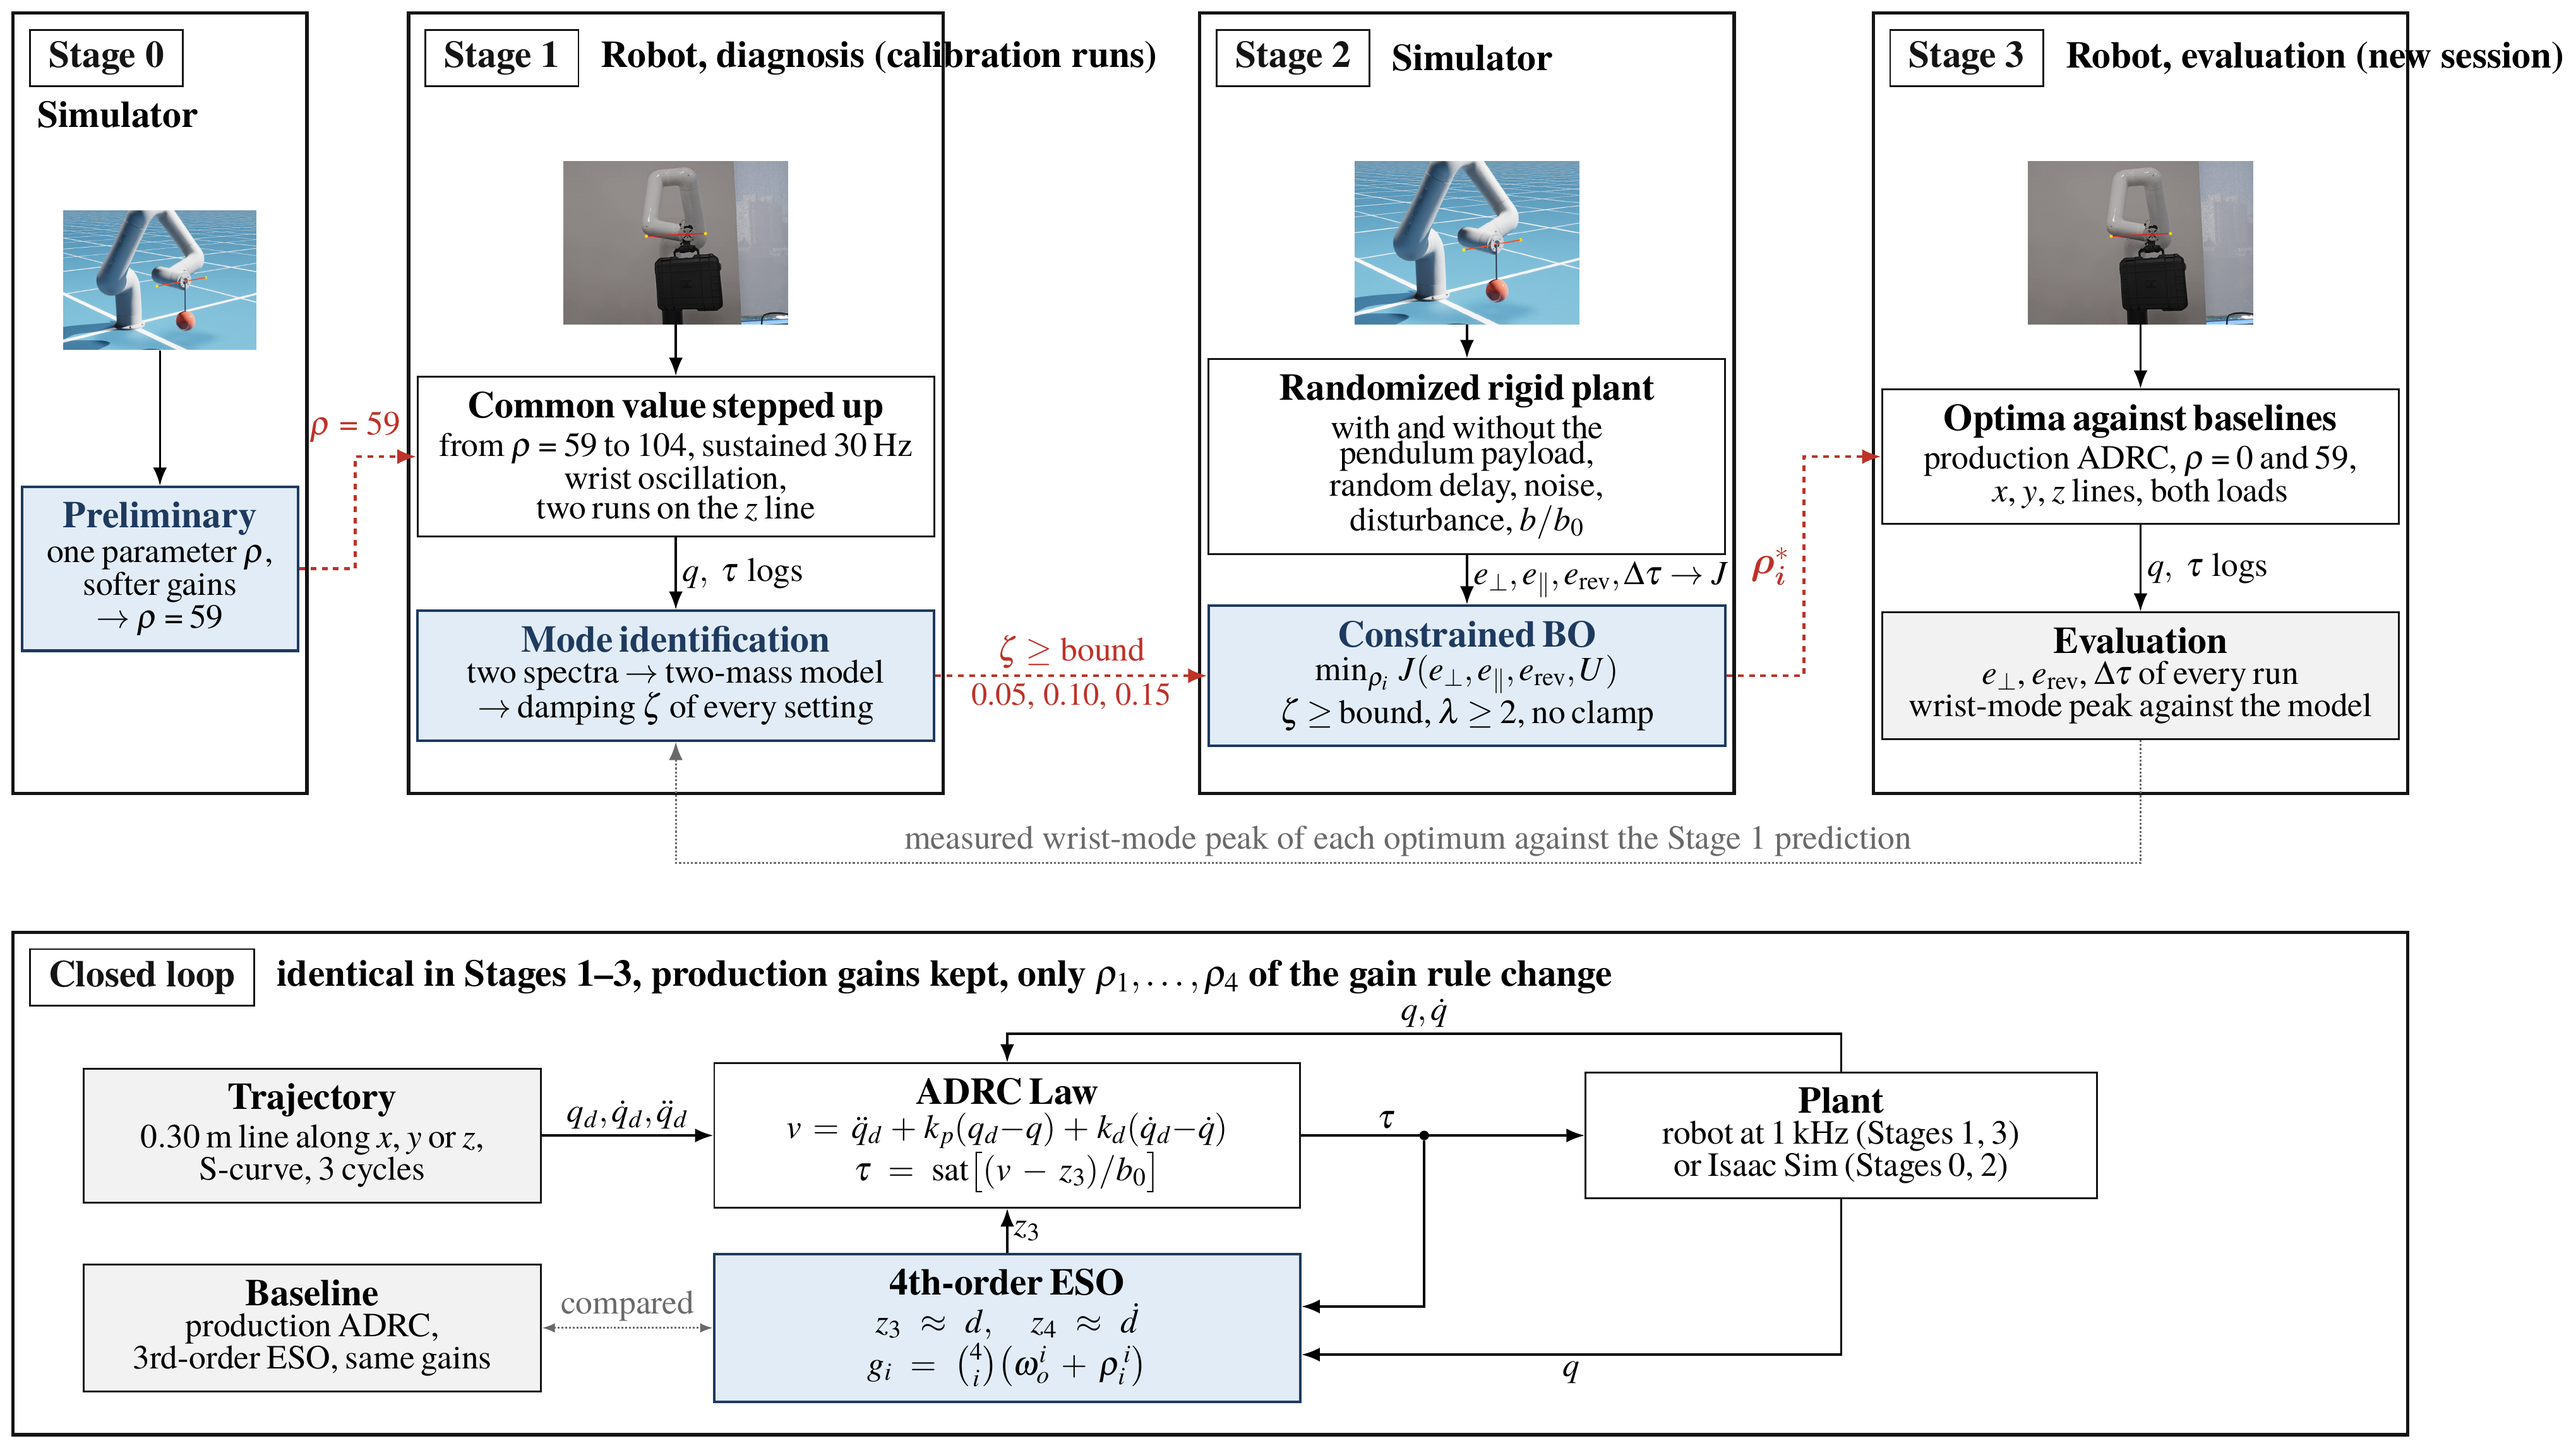
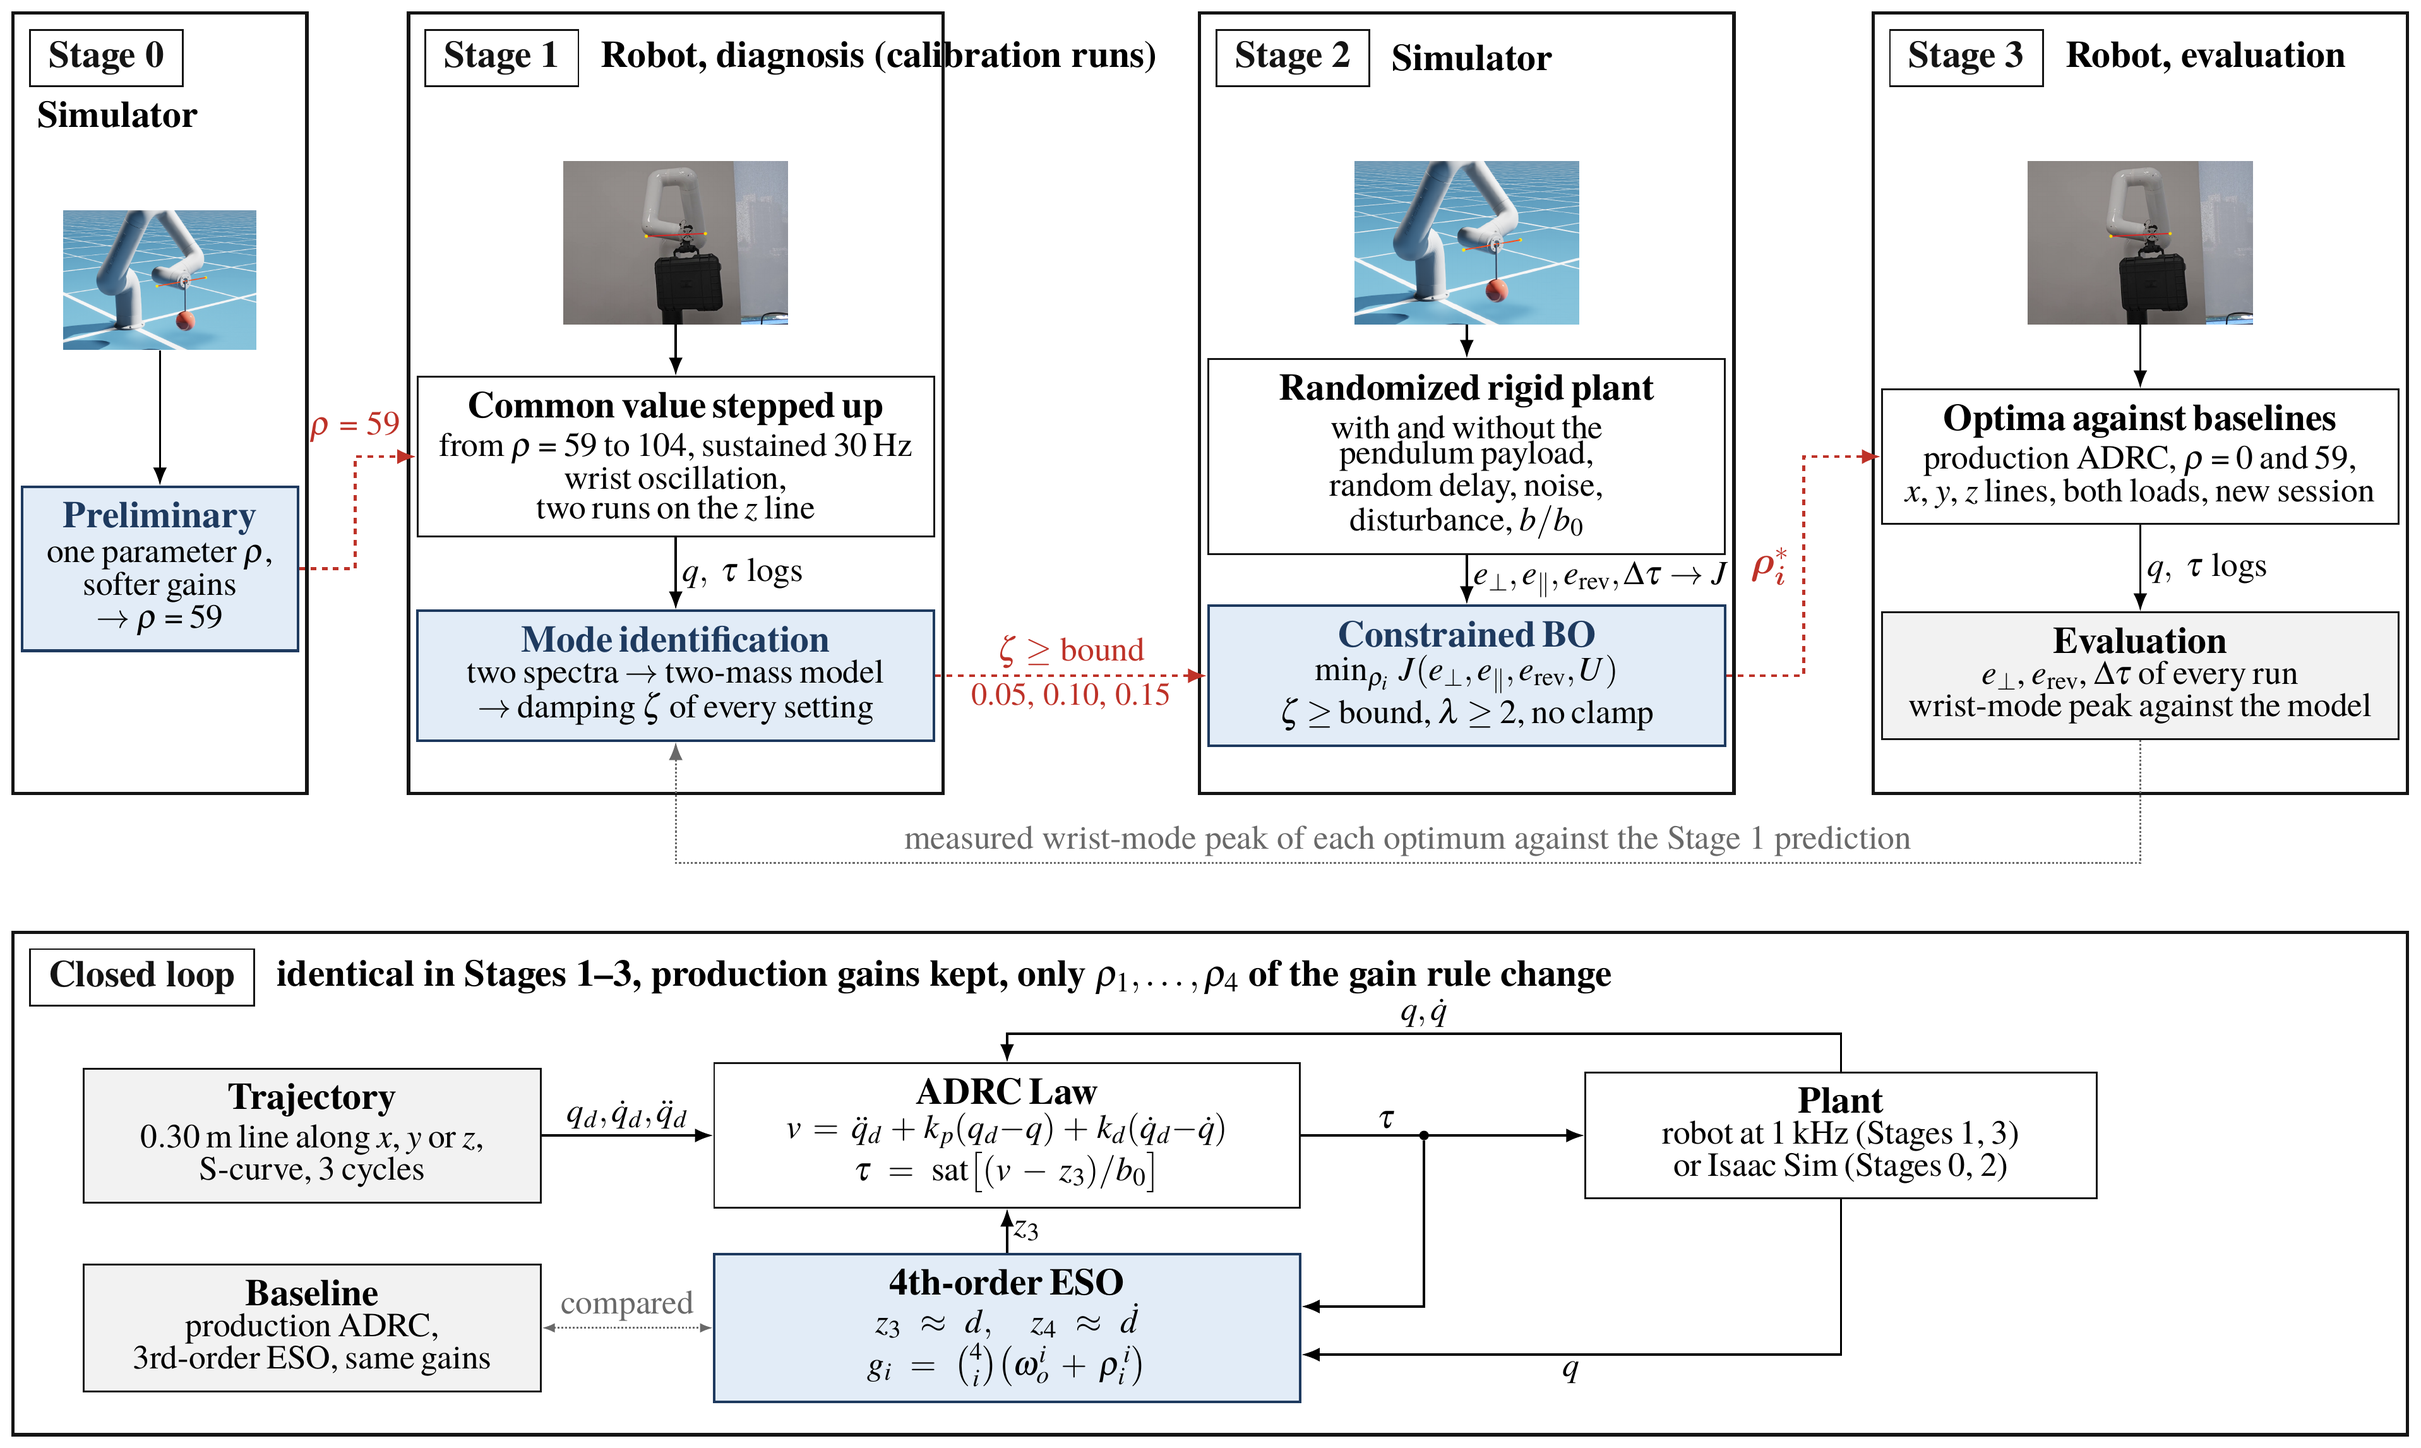
Fig. 1: Stage 3 subtitle shortened, 'new session' moved into the box

diff --git a/index.html b/index.html
@@ -56,7 +56,7 @@
     <section class="page-width section-space" id="method" aria-labelledby="method-title">
       <h2 id="method-title">Method</h2>
       <figure class="method-figure">
-        <img src="assets/fig1_pipeline.png?v=20261117h" alt="Study design in four stages. A preliminary simulator search gives the nominal common value, the robot steps it up to the onset of wrist oscillation and fits a two-mass loop model, constrained Bayesian optimization searches at three levels of the damping bound in the simulator, and the optimum of each level runs on the robot against the production ADRC, the binomial observer and the nominal value.">
+        <img src="assets/fig1_pipeline.png?v=20261117i" alt="Study design in four stages. A preliminary simulator search gives the nominal common value, the robot steps it up to the onset of wrist oscillation and fits a two-mass loop model, constrained Bayesian optimization searches at three levels of the damping bound in the simulator, and the optimum of each level runs on the robot against the production ADRC, the binomial observer and the nominal value.">
       </figure>
       <ul class="stages">
         <li><strong>Stage 0, simulator.</strong> A preliminary one-parameter search with softer gains gives the nominal common value, ρ = 59.</li>
